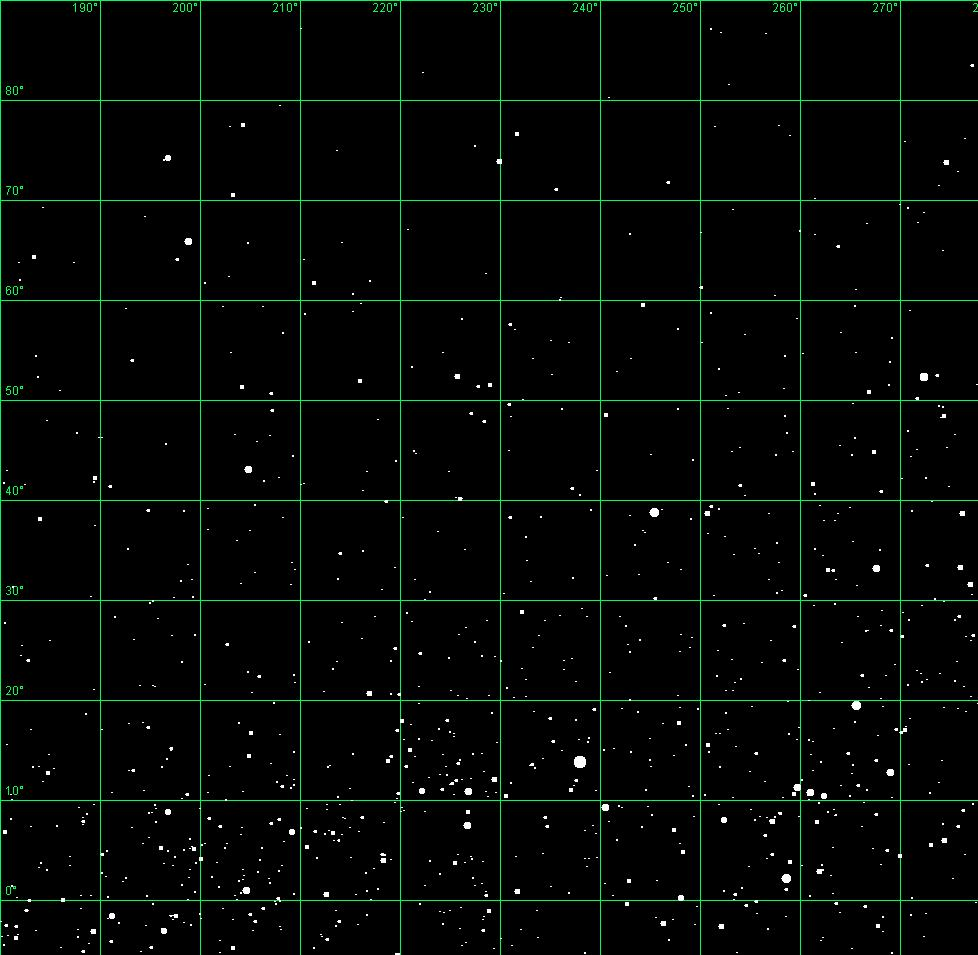
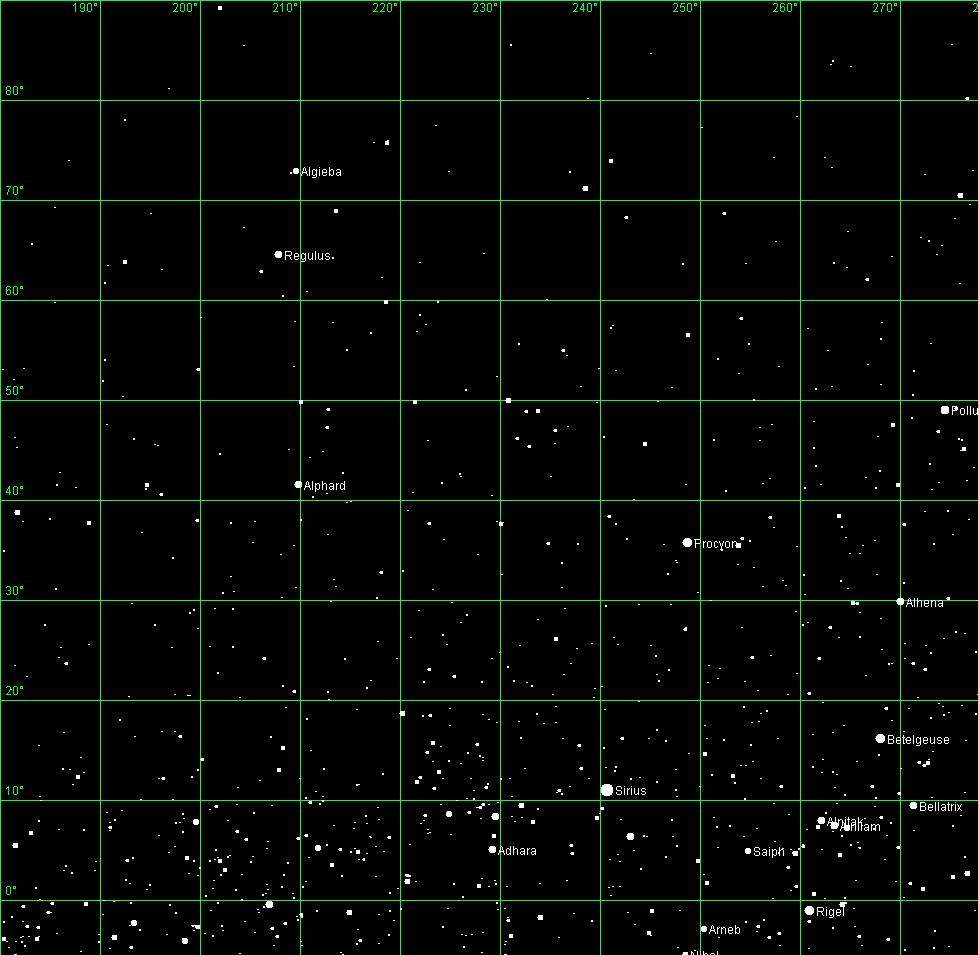
Adding name labels to stars

diff --git a/StarMap/StarMap/src/starmap/MapPanel.java b/StarMap/StarMap/src/starmap/MapPanel.java
@@ -32,7 +32,7 @@ public class MapPanel extends JPanel
     private final int horizontalGridLabelYOffset = -5;
     
     private final int verticalGridLabelXOffset = -1 * horizontalGridLabelWidth;
-    private final int verticalGridLabelYOffset = 0;    
+    private final int verticalGridLabelYOffset = 0;   
     
     private final double minimumStarWidth = 1;
     private final double maximumStarWidth = 6;
@@ -96,6 +96,13 @@ public class MapPanel extends JPanel
             int verticalPosition = (int)Math.round((90 + (-1 * star.elevation)) * sizeMultiplier);
             
             g2d.fillOval(horizontalPosition, verticalPosition, starDiameter, starDiameter);  
+            
+            if (star.name.length() > 0)
+            {
+                g2d.drawString(star.name, 
+                        (int)Math.round(horizontalPosition + starDiameter + 2), 
+                        (int)Math.round(verticalPosition + (starDiameter / 2) + (gridLabelHeight / 2)));                
+            }
             
             //System.out.println("Drawing star " + star.name + " at " + star.azimuth + ", " + star.elevation);
             
